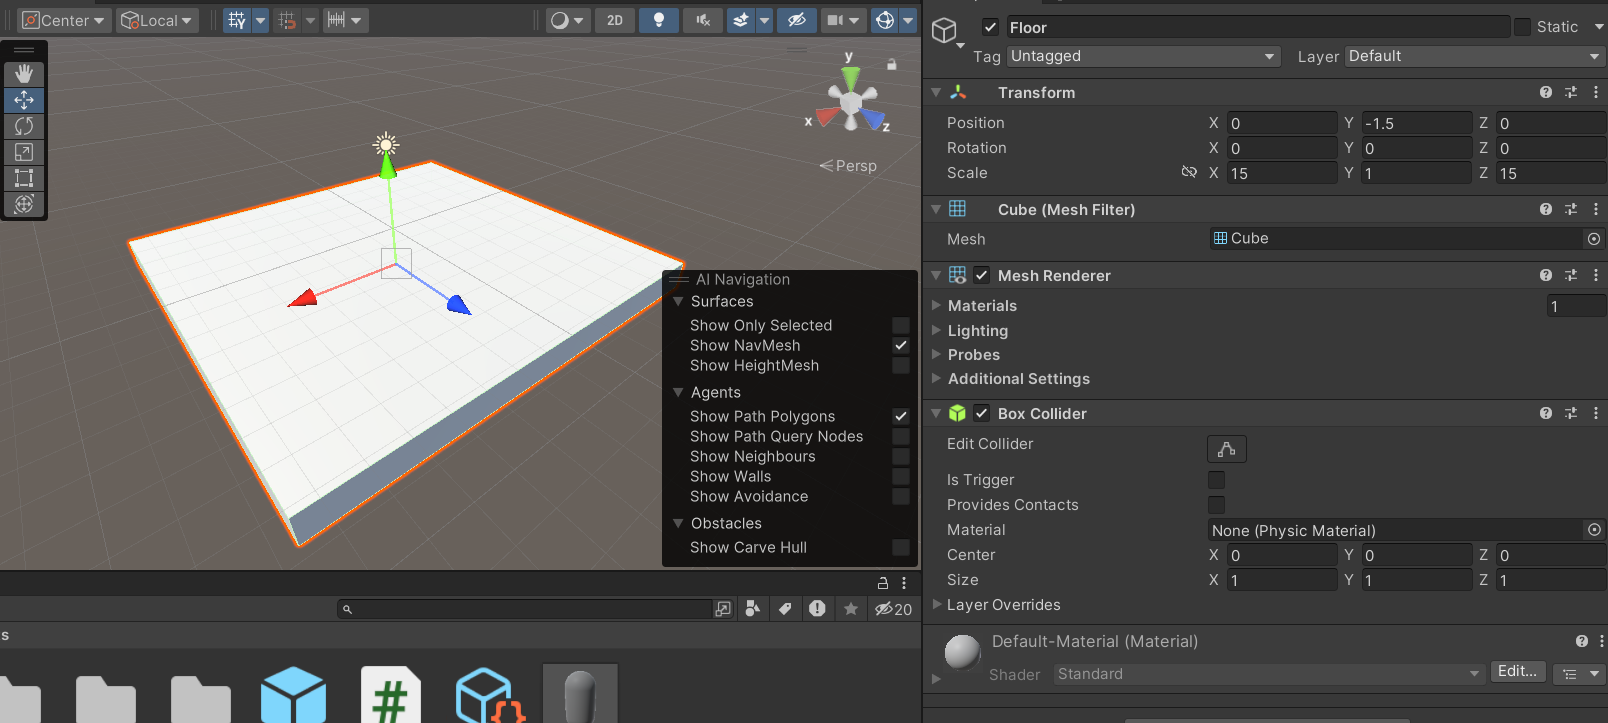
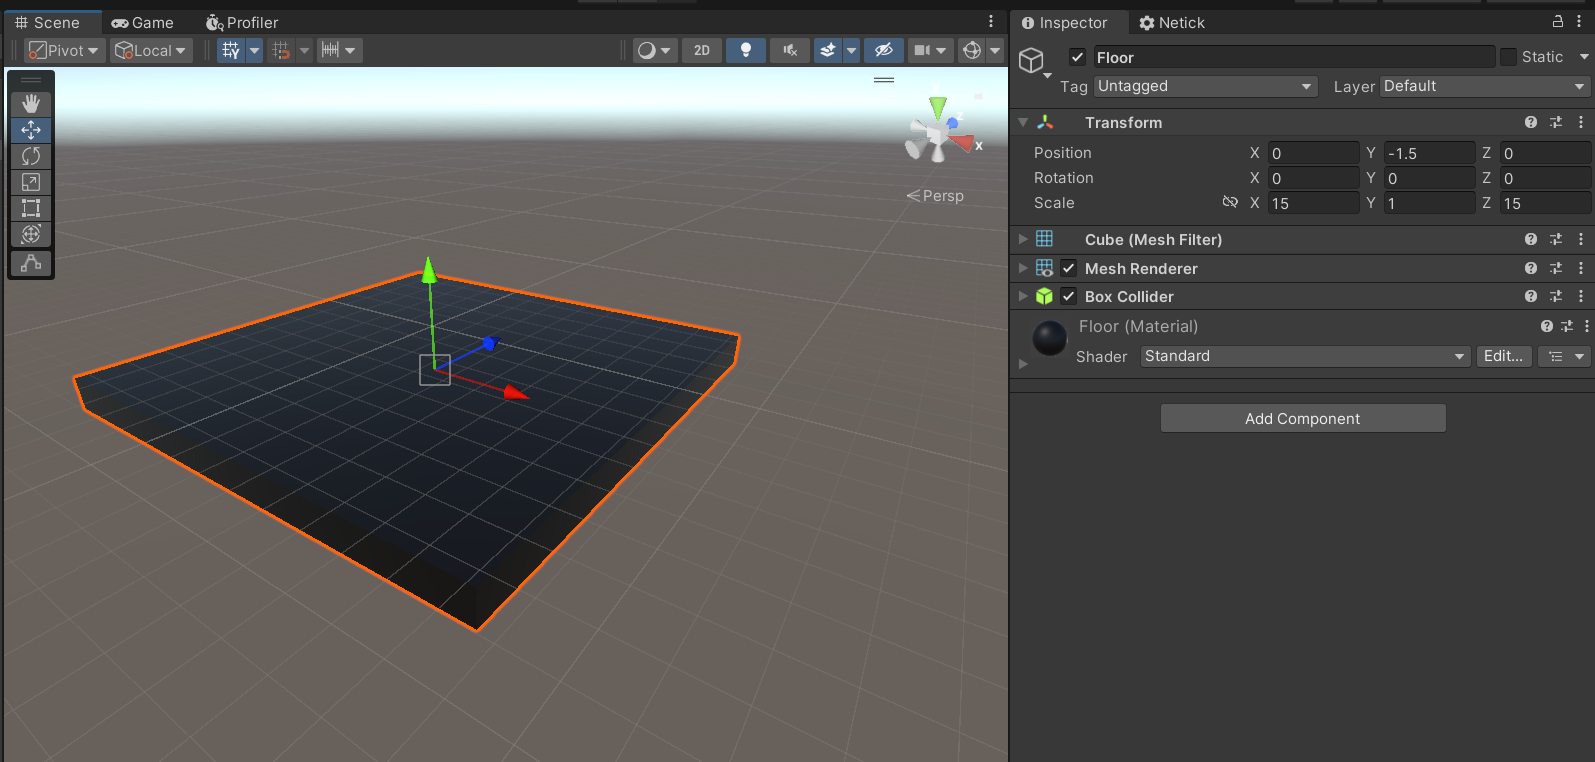
docs: getting started now dont use physics, and better color

diff --git a/articles/getting-started-guide/3-player-character-movement.md b/articles/getting-started-guide/3-player-character-movement.md
@@ -83,21 +83,20 @@ In a single-player game, we use `Time.deltaTime` to move our player to make it f
 
 [Learn More About Writing Client-Side Prediction Code](../understanding-client-side-prediction/writing-client-side-prediction-code.md)
 
-## Network Rigidbody
-Adding `NetworkRigidbody` allows us to sync the position, rotation and physics of our character.
+## Network Transform
+Adding `NetworkTransform` allows us to sync the position, rotation of our character.
 
-1. Add `NetworkRigidbody` component to our player character prefab.
-2. Toggle on `Freeze Rotation` on all Axis (X, Y, Z).
+- Add `NetworkTransform` component to our player character prefab.
 
-[Learn More About NetworkRigidbody](../built-in-components/networkrigidbody.md)
+[Learn More About NetworkTransform](../built-in-components/networktransform.md)
 
 ### Gameplay & Visual Seperation
-In the `NetworkRigidbody` component, there is a `Render Transform` field which asks for a `Transform`.
+In the `NetworkTransform` component, there is a `Render Transform` field which asks for a `Transform`.
 Because Netick is a tick-based netcode, it means movement will happen at a fixed rate which is lower than your FPS. Which will cause unsmooth movement. To fix this, we use interpolation which lets us give smoothed position and rotation to our player character visual.
 
 1. Create a child on the player and name it "Visual".
 2. Delete & Move the `Capsule (Mesh Filter)` and `Mesh Renderer` component to Visual.
-3. Assign Visual to `Render Transform` of `NetworkRigidbody` .
+3. Assign Visual to `Render Transform` of `NetworkTransform` .
 
 [Learn More About Interpolation](../interpolation.md)
 

diff --git a/articles/getting-started-guide/2-setting-up-the-game.md b/articles/getting-started-guide/2-setting-up-the-game.md
@@ -51,8 +51,8 @@ Then assign the `Transport` field of Game Starter.
 
 ## Setting Up the Scene
 ### Floor
-Let's create a 3D Cube named "Floor" with a scale of `(15, 1, 15)` and a position of `(0, -1.5, 0)`.
-
+- Let's create a 3D Cube named "Floor" with a scale of `(15, 1, 15)` and a position of `(0, -1.5, 0)`.
+- Create and assign a black material into it for visibility
 <figure><img src="../../images/getting-started/102-floor.png" alt=""><figcaption></figcaption></figure>
 
 ### Camera
@@ -85,6 +85,7 @@ Let's create our player character:
 1. Right click on the hierarchy and select `3D Object > Capsule`.
 2. Add `NetworkObject` component.
 3. Rename it to `PlayerCharacter`.
+4. Remove the Capsule Collider from the Capsule we just created (we won't use physics in this tutorial)
 
 Adding `NetworkObject` to a GameObject will give it an identity across the network, so that it's synced. 
 
@@ -107,7 +108,12 @@ public class GameplayManager : NetworkEventsListener
 
     public override void OnPlayerConnected(NetworkSandbox sandbox, Netick.NetworkPlayer player)
     {
-        sandbox.NetworkInstantiate(PlayerPrefab.gameObject, Vector3.zero, Quaternion.identity, player);
+        // Random Spawn Position (to not make them overlap)
+        Vector3 spawnPosition = new Vector3();
+        spawnPosition.x = Random.Range(-5f, 5f);
+        spawnPosition.z = Random.Range(-5f, 5f);
+
+        sandbox.NetworkInstantiate(PlayerPrefab.gameObject, spawnPosition, Quaternion.identity, player);
     }
 }
 ```

diff --git a/articles/getting-started-guide/5-remote-procedure-call.md b/articles/getting-started-guide/5-remote-procedure-call.md
@@ -15,7 +15,7 @@ In this tutorial, we are going to use an RPC (Remote Procedure Call) to set our 
 
 <figure><img src="../../images/getting-started/105-canvas.png" alt=""><figcaption></figcaption></figure>
 
-6. In your text component, change font size to `128`, give it black color, and middle & center alignment. Make sure your text now is in the center.
+6. In your text component, change font size to `128`, and middle & center alignment. Make sure your text now is in the center.
 
 <figure><img src="../../images/getting-started/105-tmp.png" alt=""><figcaption></figcaption></figure>
 
